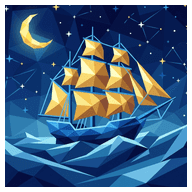
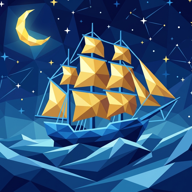
Update PWA assets

diff --git a/apps/web/pwa-assets.config.js b/apps/web/pwa-assets.config.js
@@ -3,6 +3,12 @@ export default defineConfig({
     headLinkOptions: {
         preset: "2023",
     },
-    preset,
+    preset: {
+        ...preset,
+        // No padding — icons are pre-composed with full-bleed artwork
+        transparent: { ...preset.transparent, padding: 0 },
+        maskable: { ...preset.maskable, padding: 0, resizeOptions: { fit: "cover", background: "transparent" } },
+        apple: { ...preset.apple, padding: 0, resizeOptions: { fit: "cover", background: "transparent" } },
+    },
     images: ["public/logo.png"],
 });
